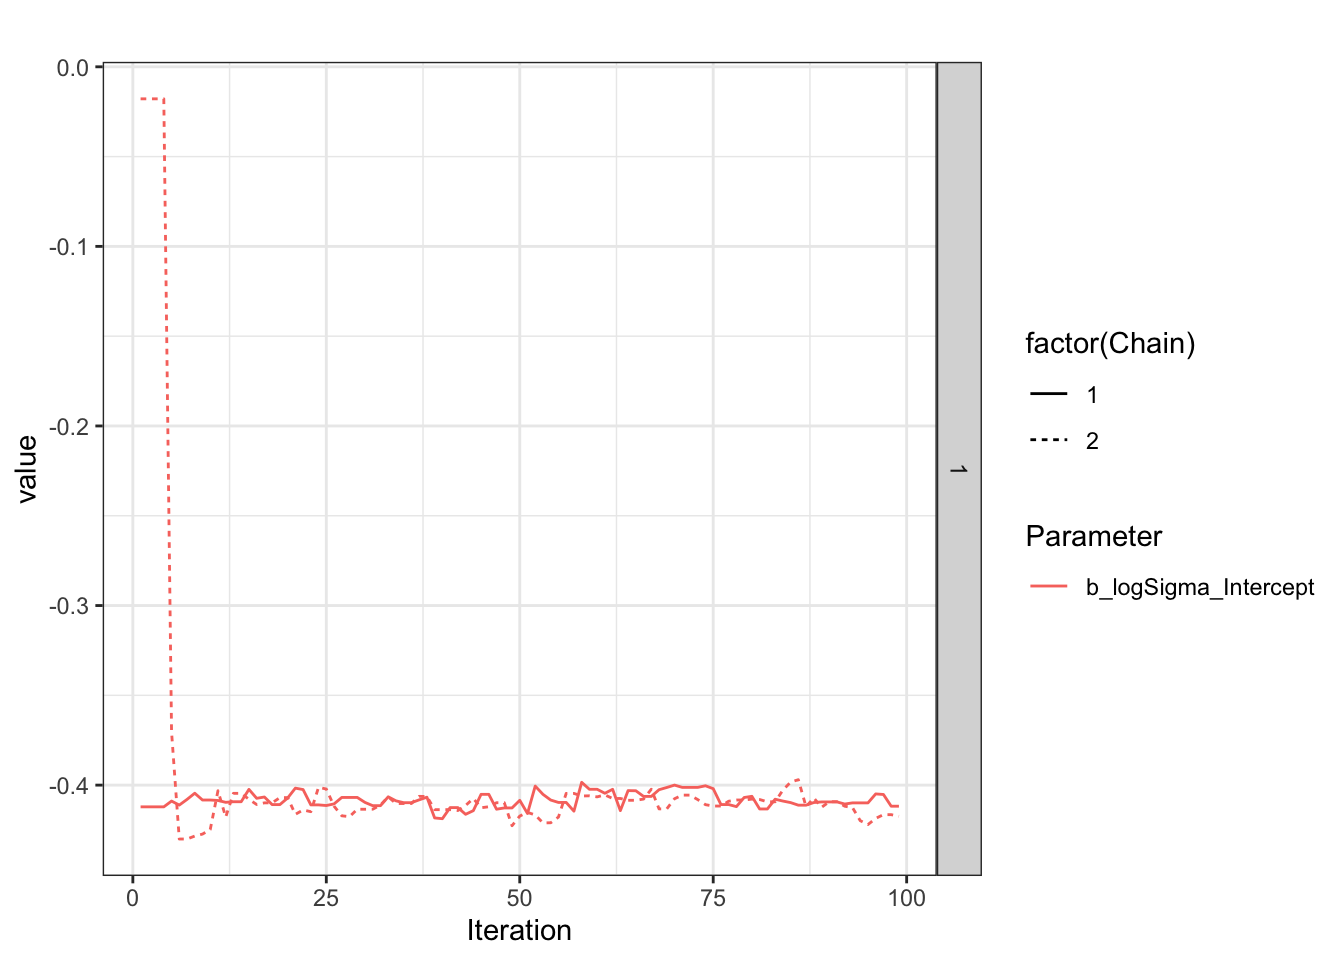
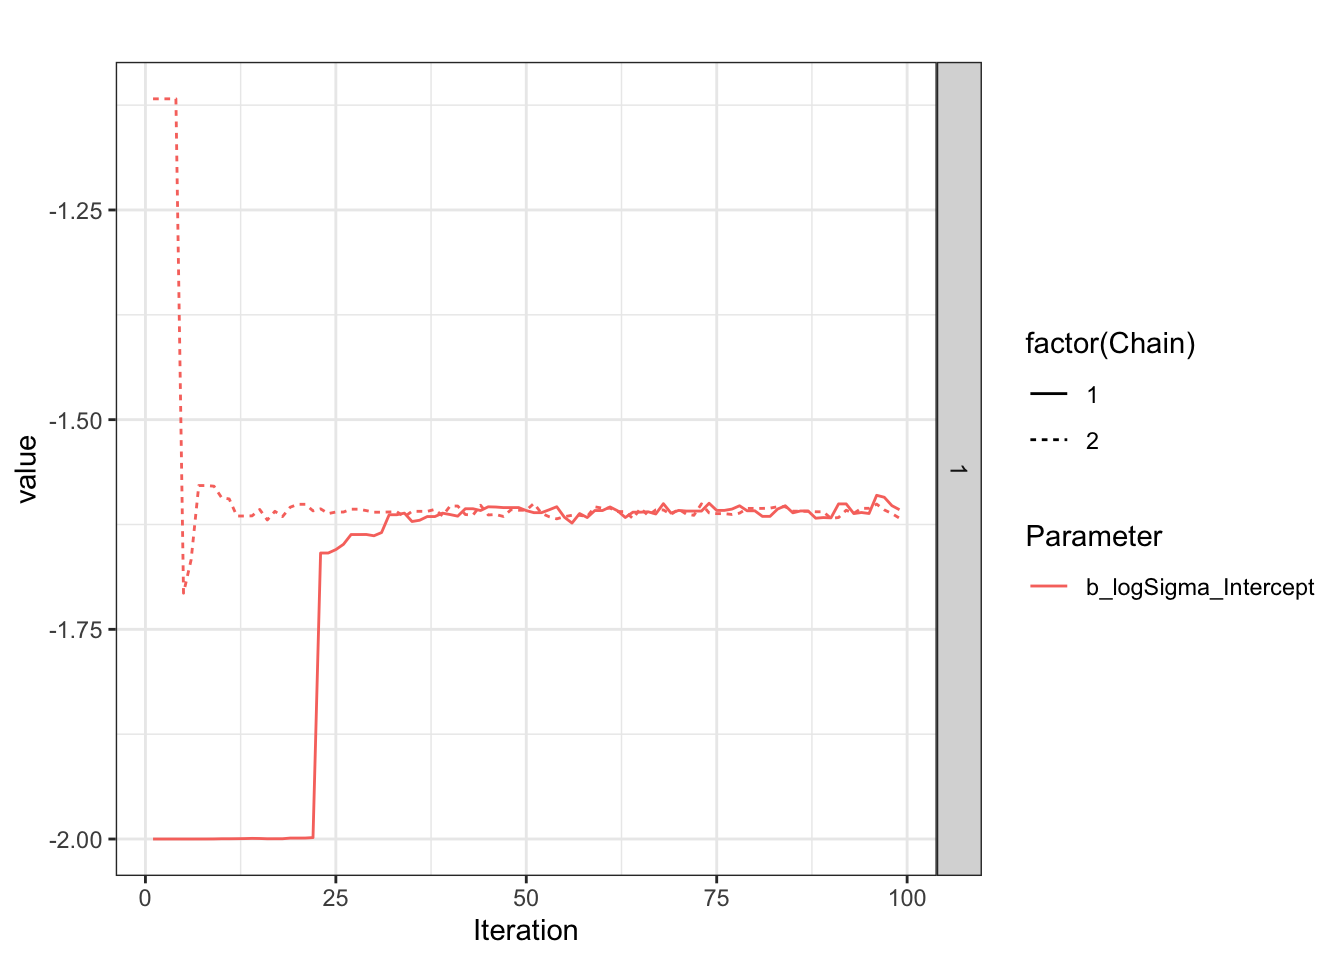
sigma worked for the first time

diff --git a/docs/logSigma_wrong_minimal_example/logSigma_wrong.html b/docs/logSigma_wrong_minimal_example/logSigma_wrong.html
@@ -246,7 +246,7 @@ window.Quarto = {
 <span id="cb5-6"><a href="#cb5-6" aria-hidden="true" tabindex="-1"></a><span class="co">#If don't want to fit lapseRate, need to supply it</span></span>
 <span id="cb5-7"><a href="#cb5-7" aria-hidden="true" tabindex="-1"></a>data_simulated<span class="sc">$</span>lapseRate<span class="ot">&lt;-</span> lapse</span>
 <span id="cb5-8"><a href="#cb5-8" aria-hidden="true" tabindex="-1"></a><span class="co">#If I don't want to fit eta, need to supply it</span></span>
-<span id="cb5-9"><a href="#cb5-9" aria-hidden="true" tabindex="-1"></a>true_eta<span class="ot">&lt;-</span> <span class="fl">1.625</span></span>
+<span id="cb5-9"><a href="#cb5-9" aria-hidden="true" tabindex="-1"></a>true_eta<span class="ot">&lt;-</span> location_param_base</span>
 <span id="cb5-10"><a href="#cb5-10" aria-hidden="true" tabindex="-1"></a>data_simulated<span class="sc">$</span>eta<span class="ot">&lt;-</span> true_eta</span>
 <span id="cb5-11"><a href="#cb5-11" aria-hidden="true" tabindex="-1"></a></span>
 <span id="cb5-12"><a href="#cb5-12" aria-hidden="true" tabindex="-1"></a>my_brms_formula <span class="ot">&lt;-</span> brms<span class="sc">::</span><span class="fu">bf</span>(</span>
@@ -368,21 +368,23 @@ make: *** [foo.o] Error 1</code></pre>
 <pre><code>Start sampling</code></pre>
 </div>
 <div class="cell-output cell-output-stdout">
-<pre><code>Time taken (min) = 1.6non_model' NOW (CHAIN 2).
-Chain 2: 
-Chain 2: Gradient evaluation took 0.033903 seconds
-Chain 2: 1000 transitions using 10 leapfrog steps per transition would take 339.03 seconds.
-Chain 2: Adjust your expectations accordingly!
-Chain 2: 
-Chain 2: 
+<pre><code>Time taken (min) = 1.8non_model' NOW (CHAIN 1
+SAMPLING FOR MODEL 'anon_model' NOW (CHAIN 2).
+).
 Chain 1: 
-Chain 1: Gradient evaluation took 0.035703 seconds
-Chain 1: 1000 transitions using 10 leapfrog steps per transition would take 357.03 seconds.
+Chain 1: Gradient evaluation took 0.036196 seconds
+Chain 1: 1000 transitions using 10 leapfrog steps per transition would take 361.96 seconds.
 Chain 1: Adjust your expectations accordingly!
 Chain 1: 
 Chain 1: 
-Chain 2: Iteration:   1 / 700 [  0%]  (Warmup)
+Chain 2: 
+Chain 2: Gradient evaluation took 0.037778 seconds
+Chain 2: 1000 transitions using 10 leapfrog steps per transition would take 377.78 seconds.
+Chain 2: Adjust your expectations accordingly!
+Chain 2: 
+Chain 2: 
 Chain 1: Iteration:   1 / 700 [  0%]  (Warmup)
+Chain 2: Iteration:   1 / 700 [  0%]  (Warmup)
 Chain 2: Iteration:  70 / 700 [ 10%]  (Warmup)
 Chain 1: Iteration:  70 / 700 [ 10%]  (Warmup)
 Chain 2: Iteration: 140 / 700 [ 20%]  (Warmup)
@@ -400,20 +402,20 @@ Chain 1: Iteration: 420 / 700 [ 60%]  (Sampling)
 Chain 2: Iteration: 490 / 700 [ 70%]  (Sampling)
 Chain 1: Iteration: 490 / 700 [ 70%]  (Sampling)
 Chain 2: Iteration: 560 / 700 [ 80%]  (Sampling)
-Chain 1: Iteration: 560 / 700 [ 80%]  (Sampling)
 Chain 2: Iteration: 630 / 700 [ 90%]  (Sampling)
-Chain 1: Iteration: 630 / 700 [ 90%]  (Sampling)
+Chain 1: Iteration: 560 / 700 [ 80%]  (Sampling)
 Chain 2: Iteration: 700 / 700 [100%]  (Sampling)
 Chain 2: 
-Chain 2:  Elapsed Time: 34.439 seconds (Warm-up)
-Chain 2:                31.825 seconds (Sampling)
-Chain 2:                66.264 seconds (Total)
+Chain 2:  Elapsed Time: 39.225 seconds (Warm-up)
+Chain 2:                31.78 seconds (Sampling)
+Chain 2:                71.005 seconds (Total)
 Chain 2: 
+Chain 1: Iteration: 630 / 700 [ 90%]  (Sampling)
 Chain 1: Iteration: 700 / 700 [100%]  (Sampling)
 Chain 1: 
-Chain 1:  Elapsed Time: 35.157 seconds (Warm-up)
-Chain 1:                31.87 seconds (Sampling)
-Chain 1:                67.027 seconds (Total)
+Chain 1:  Elapsed Time: 40.96 seconds (Warm-up)
+Chain 1:                40.252 seconds (Sampling)
+Chain 1:                81.212 seconds (Total)
 Chain 1: </code></pre>
 </div>
 </div>
@@ -422,7 +424,7 @@ Chain 1: </code></pre>
 <p>First report on logSigma.</p>
 <div class="cell">
 <div class="cell-output cell-output-stdout">
-<pre><code>Discrepancy of 1.2 between true logSigma, -1.61 and what brms estimated, -0.41</code></pre>
+<pre><code>[1] "Success. Looks like I/brms calculated/estimated the reference group logSigma correctly."</code></pre>
 </div>
 </div>
 <p>Now report on eta_Intercept (if estimated).</p>
@@ -430,7 +432,7 @@ Chain 1: </code></pre>
 <p>Check brms’ estimate of sigma.</p>
 <div class="cell">
 <div class="cell-output cell-output-stdout">
-<pre><code>Discrepancy of 1.2 between true logSigma, -1.61 and what brms estimated, -0.41</code></pre>
+<pre><code>[1] "Success. Looks like I/brms calculated/estimated the reference group logSigma correctly."</code></pre>
 </div>
 </div>
 <section id="plot-the-predictions-of-the-brms-fit" class="level2">

diff --git a/docs/index.md b/docs/index.md
@@ -18,7 +18,7 @@ Eventually, [do_all_model_recovery.html](../do_all_model_recovery.html)
 ## Why is estimate of logSigma so much larger (shallower) than actual value?
 
 Discrepancy of 0.37 between my logSigma, -1.61 and what brms estimated, -1.24
-
+Works in this seemingly super-simple case:
 [logSigma_wrong](logSigma_wrong_minimal_example/logSigma_wrong.html)
 
 ## Why do CIs for parameters whose true value is exactly zero never range below zero?
